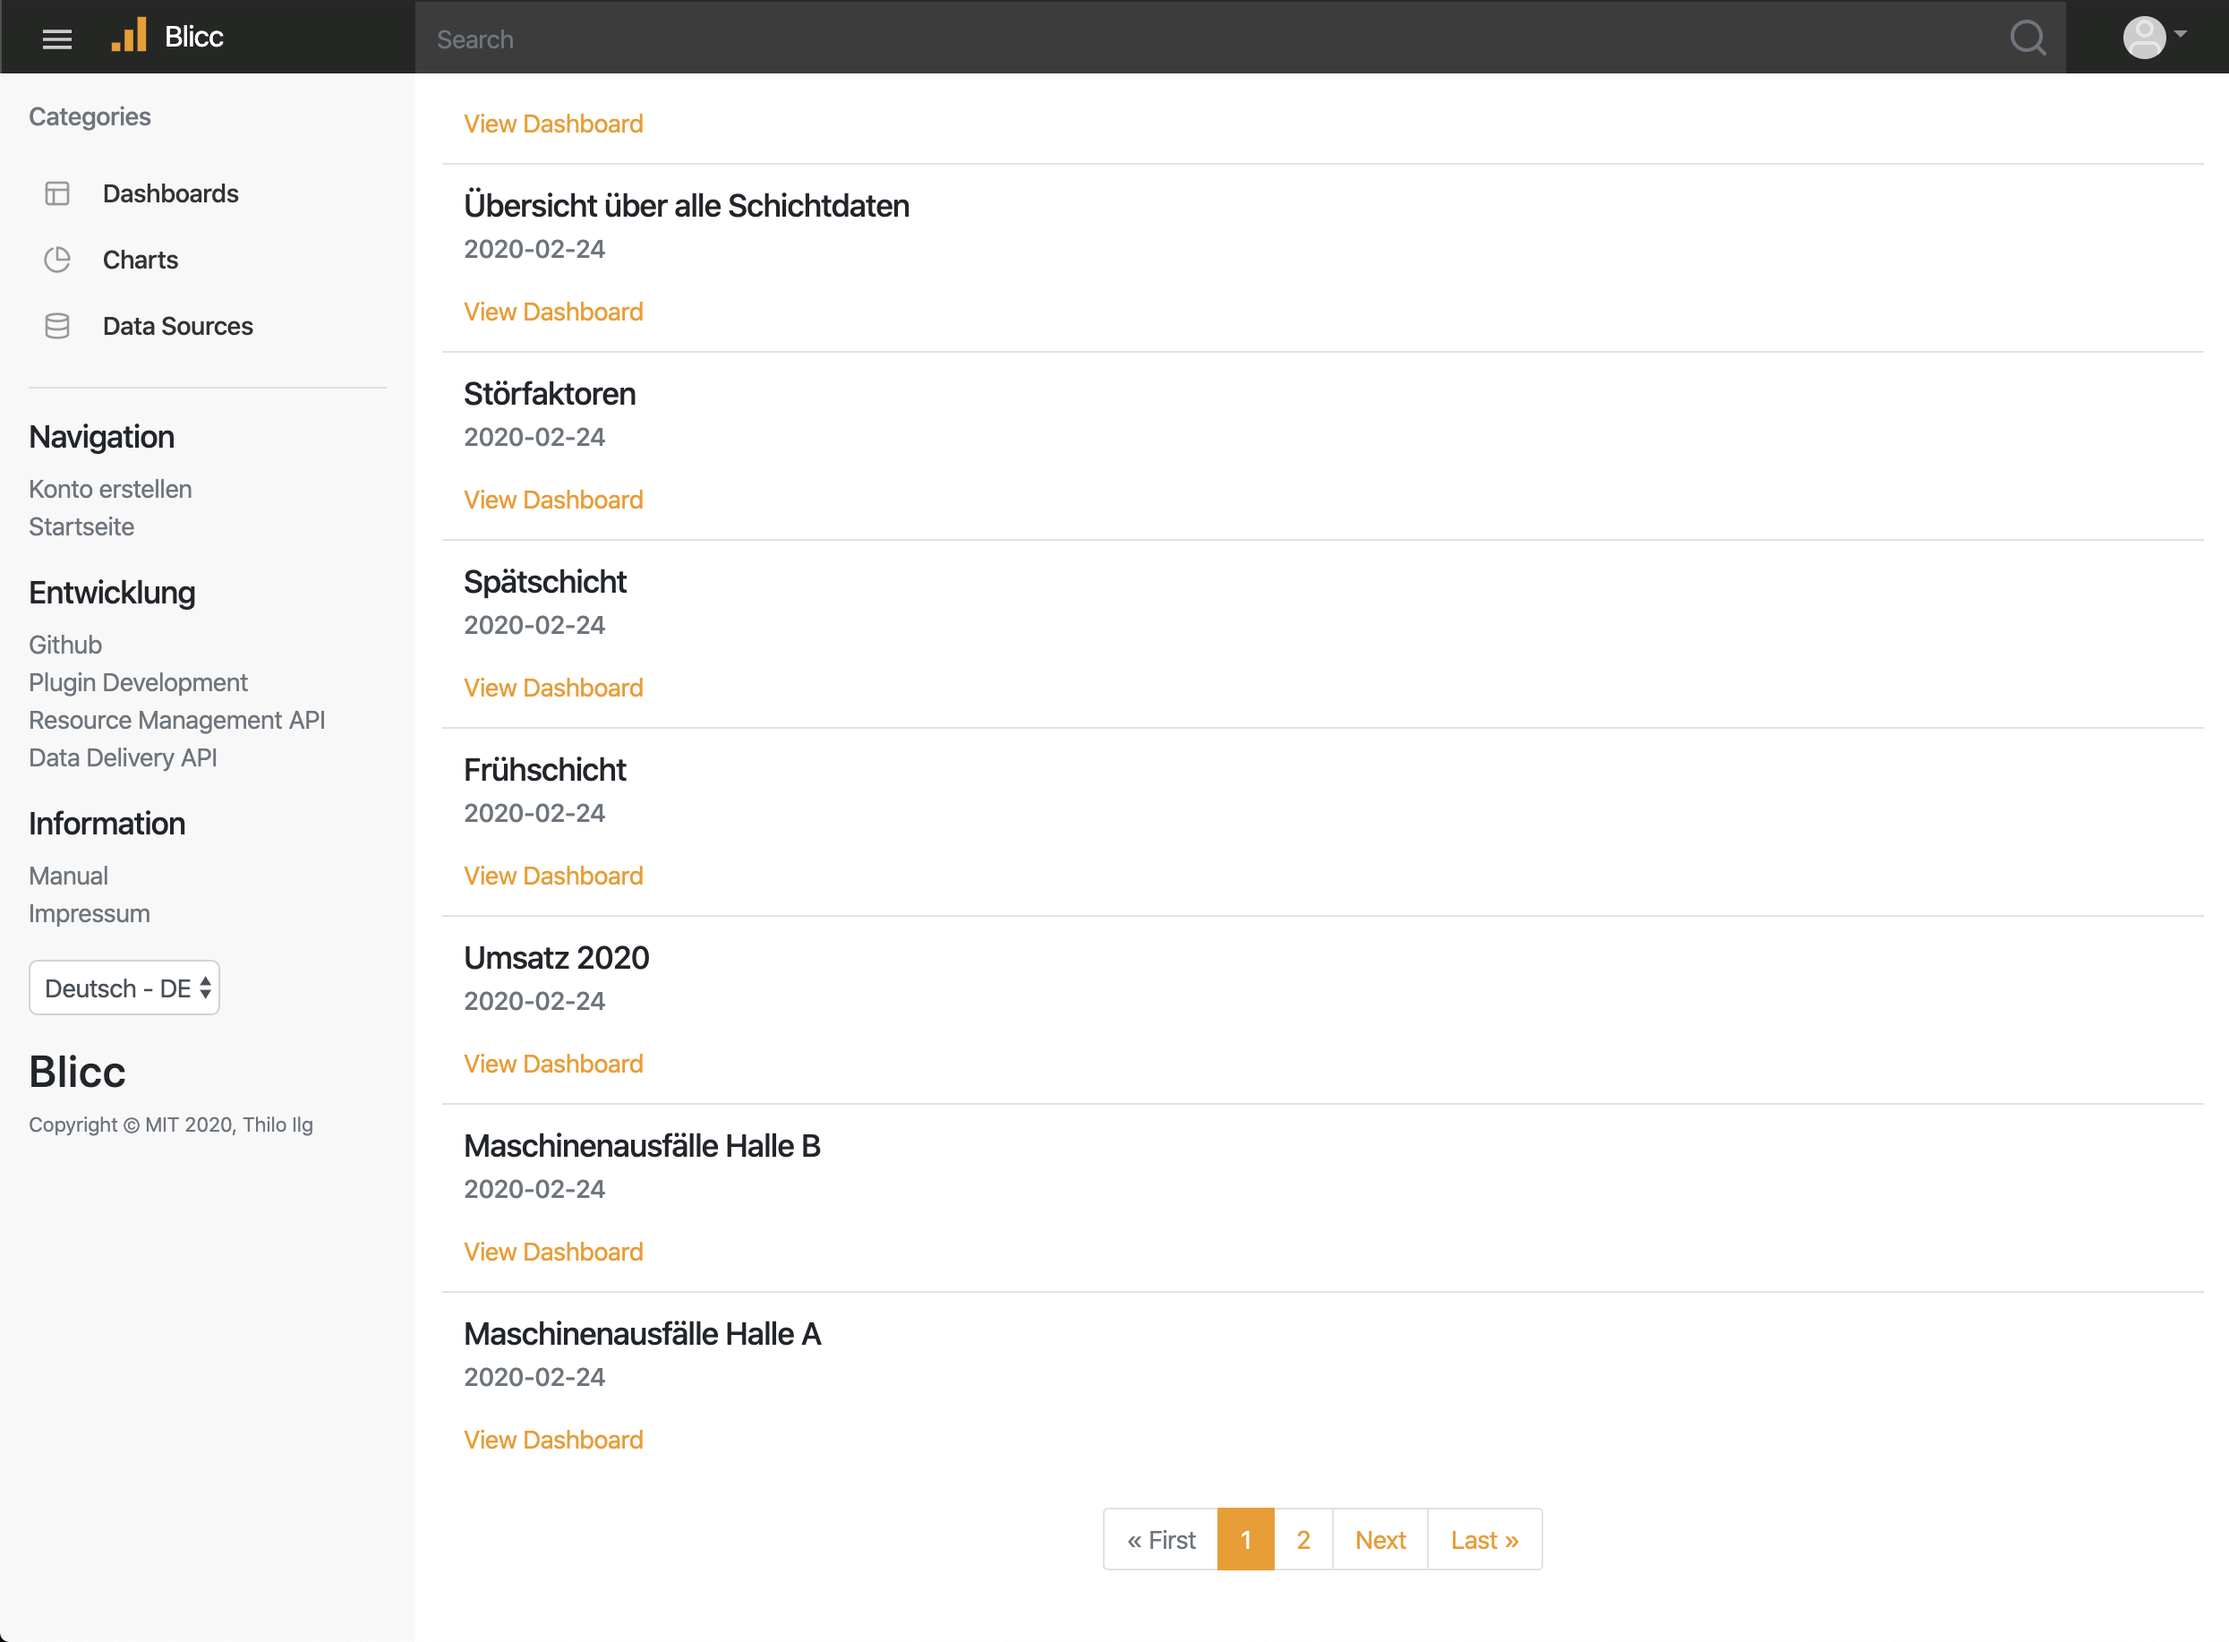
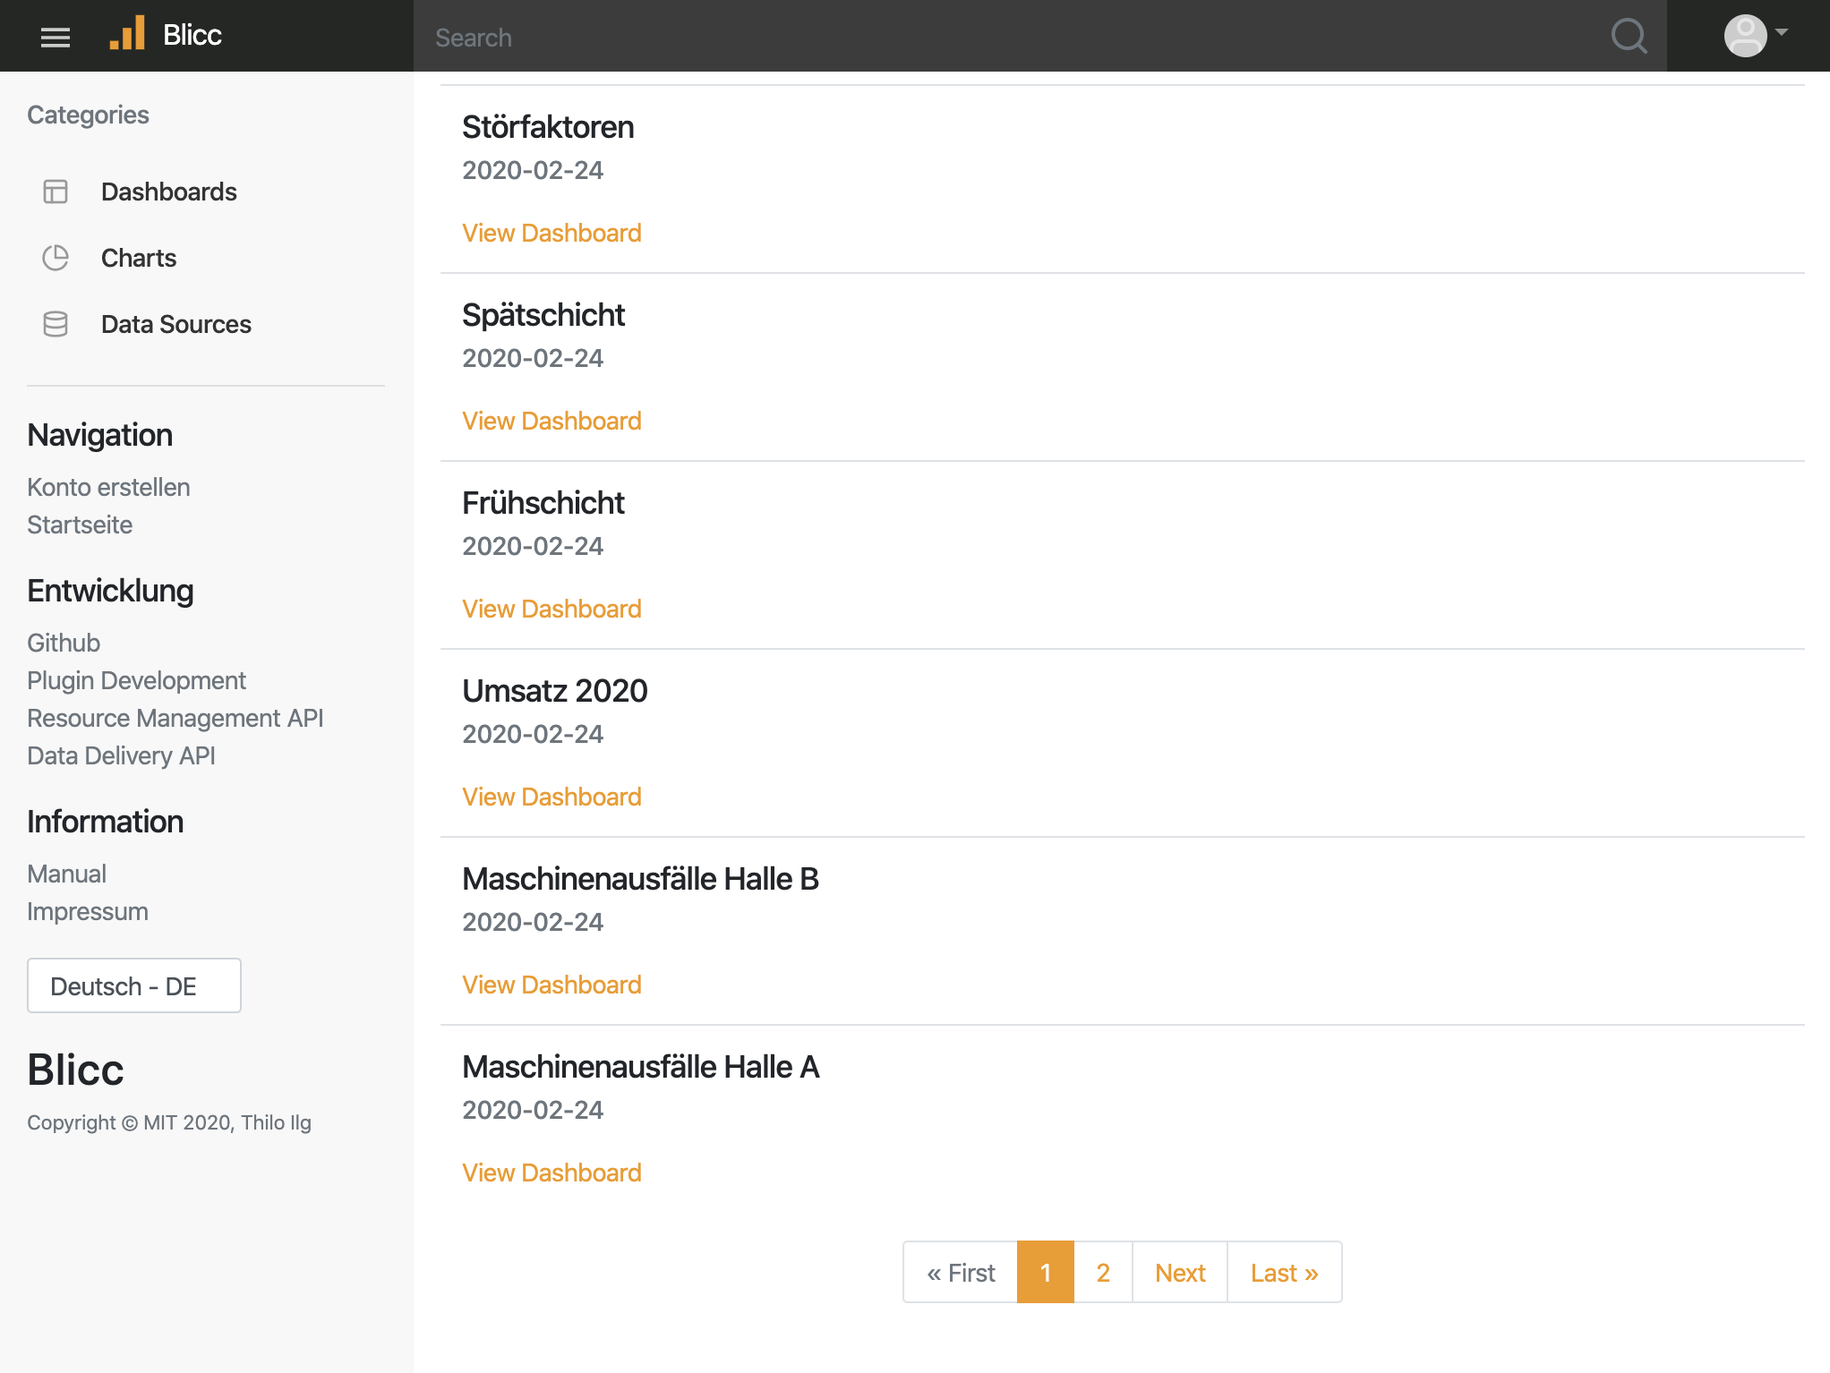
feat(ma): add tablet screenshots

Changed region(s): [[0.0, 0.0, 1.0, 0.8885], [0.4932, 0.8885, 0.7089, 0.9804], [0.0, 0.766, 0.1541, 0.8272]]

diff --git a/docs/Sonstiges/Screenshots.tex b/docs/Sonstiges/Screenshots.tex
@@ -29,7 +29,7 @@
 
 \begin{figure}[h]
     \centering
-    \includegraphics[scale=0.3]{img/desktop/Pagination}
-    \caption{Navigation über mehrere Seiten (Desktop)}
+    \includegraphics[scale=0.35]{img/desktop/Pagination}
+    \caption{Navigation über mehrere Seiten (Tablet-PC)}
     \label{figure:navigationuebermehrereseiten}
 \end{figure}
